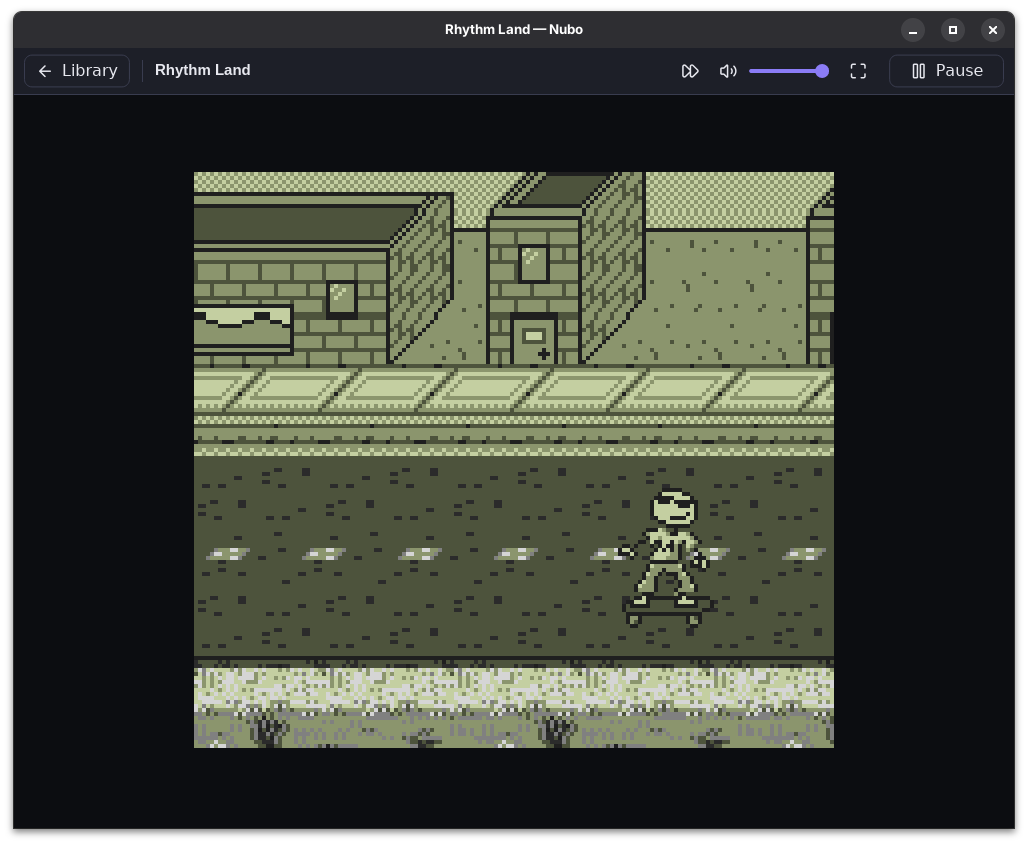
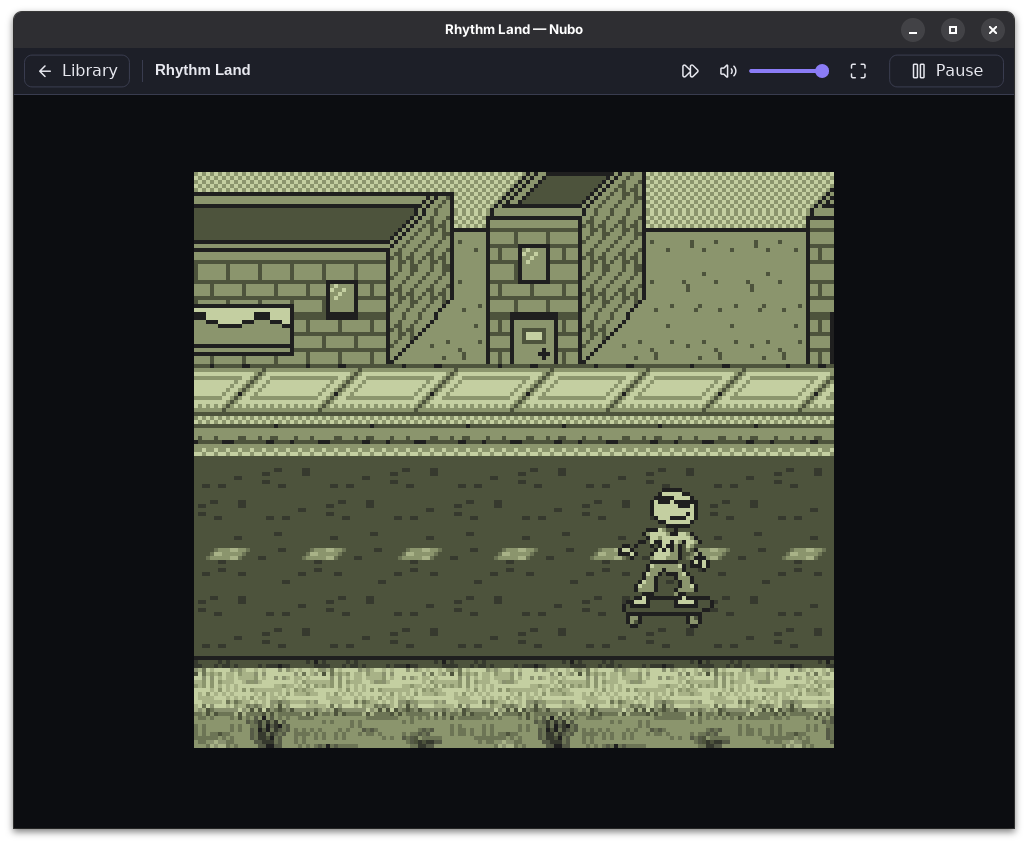
Frontend: repaint both frames in the palette before blending them (#206)
* Frontend: repaint both frames in the palette before blending them

With the original screen look, the screen blended the newest frame with
the one before in the emulator's grays and only then repainted it in the
palette. The palette only knows the four grays, so the shades in between
stayed gray in the Green and Pocket palettes, or landed on another shade
and got its color.

ScreenEffects::show now repaints both frames, then blends them. The frame
before is kept in grays, so a new palette repaints it too. The scene
previews in xtask go through the same function.

Fixes #155

Claude-Session: https://claude.ai/code/session_019D3hNvysR322wvtXzBUgRg

* Regenerate the Rhythm Land screenshot with blended frames in the palette

Its moving road markings and grass were blended in gray before being
repainted, which left them gray in the Pocket palette.

Claude-Session: https://claude.ai/code/session_019D3hNvysR322wvtXzBUgRg

---------

diff --git a/crates/nubo-frontend/src/lcd.rs b/crates/nubo-frontend/src/lcd.rs
@@ -19,7 +19,8 @@
 //! screen look, turns on only the one each model's screen had
 //! ([`ScreenEffects`], see `GameSession::set_screen_look`).
 
-use crate::picture::Frame;
+use crate::palettes::DmgPalette;
+use crate::picture::{Frame, Picture};
 use nubo_core::Model;
 use std::sync::OnceLock;
 
@@ -48,19 +49,36 @@ impl ScreenEffects {
         }
     }
 
-    /// Puts the effects on `frame`, as the emulator drew it: mixes it with
-    /// `previous`, the pixels of the frame before as the emulator drew them,
-    /// when frames blend and there is one, and corrects its colors. Frames
-    /// in the Game Boy's grays and Super Game Boy frames, which a TV showed,
+    /// `frame`, as the emulator drew it, as the player sees it through the
+    /// effects: in `palette` and with or without a Super Game Boy's border
+    /// (see `Frame::shown`), mixed with `previous`, the frame before as the
+    /// emulator drew it, when frames blend and there is one, and with its
+    /// colors corrected. Both frames are repainted in the palette before
+    /// they are mixed: the palette only knows the emulator's four grays, so
+    /// it can't repaint the shades in between that mixing makes. Frames in
+    /// the Game Boy's grays and Super Game Boy frames, which a TV showed,
     /// keep their colors.
-    pub fn apply(self, frame: &mut Frame, previous: Option<&[u8]>) {
-        if self.blend_frames
-            && let Some(previous) = previous
-        {
-            blend(&mut frame.pixels, previous);
-        }
-        if self.correct_colors && !frame.in_dmg_shades && frame.sgb_menu.is_none() {
-            correct_colors(&mut frame.pixels);
+    pub fn show(
+        self,
+        frame: &Frame,
+        previous: Option<&Frame>,
+        palette: DmgPalette,
+        with_border: bool,
+    ) -> Picture {
+        let picture = if self.correct_colors && !frame.in_dmg_shades && frame.sgb_menu.is_none() {
+            let mut corrected = frame.clone();
+            correct_colors(&mut corrected.pixels);
+            corrected.shown(palette, with_border)
+        } else {
+            frame.shown(palette, with_border)
+        };
+        match previous {
+            Some(previous) if self.blend_frames => {
+                let mut pixels = picture.pixels().to_vec();
+                blend(&mut pixels, previous.shown(palette, with_border).pixels());
+                Picture::new(picture.width(), picture.height(), pixels)
+            }
+            _ => picture,
         }
     }
 }

diff --git a/crates/nubo-frontend/src/session/game.rs b/crates/nubo-frontend/src/session/game.rs
@@ -454,9 +454,10 @@ struct Screen {
     border: bool,
     /// What the picture goes through to look like the model's own screen.
     effects: ScreenEffects,
-    /// The pixels of the frame before the newest, as the emulator drew
-    /// them, to blend the newest with.
-    previous: Option<Vec<u8>>,
+    /// The frame before the newest, as the emulator drew it, to blend the
+    /// newest with. It is kept in the emulator's grays, so a new palette
+    /// repaints it too.
+    previous: Option<Frame>,
     /// The sequence number of the frame shown, to skip unchanged frames.
     sequence: u64,
 }
@@ -478,25 +479,17 @@ impl Screen {
     /// without any border. Save states and the library keep it as their
     /// picture.
     fn screen_pixels(&self) -> Option<Vec<u8>> {
-        let mut raw = self.raw.clone()?;
-        self.correct(&mut raw);
-        let picture = raw.shown(self.palette, false);
+        let raw = self.raw.as_ref()?;
+        let picture = self.effects.show(raw, None, self.palette, false);
         Some(picture.pixels().to_vec())
     }
 
     /// Shows a frame as the emulator drew it, in the chosen palette, mixed
     /// with the one before and with its colors corrected if the player wants.
     fn show(&mut self, frame: Frame) {
-        self.previous = self.raw.take().map(|raw| raw.pixels);
+        self.previous = self.raw.take();
         self.raw = Some(frame);
         self.show_again();
-    }
-
-    /// Corrects the colors of a Game Boy Color frame, if the player wants.
-    /// Frames in the Game Boy's grays and Super Game Boy frames, which a TV
-    /// showed, stay as they are.
-    fn correct(&self, frame: &mut Frame) {
-        self.effects.apply(frame, None);
     }
 
     /// Shows the picture through `effects` from now on, repainting the frame
@@ -530,9 +523,11 @@ impl Screen {
     /// it came, after a setting changed.
     fn show_again(&mut self) {
         if let Some(raw) = &self.raw {
-            let mut shown = raw.clone();
-            self.effects.apply(&mut shown, self.previous.as_deref());
-            self.picture = Some(shown.shown(self.palette, self.border));
+            self.picture =
+                Some(
+                    self.effects
+                        .show(raw, self.previous.as_ref(), self.palette, self.border),
+                );
         }
     }
 }

diff --git a/crates/nubo-frontend/src/session/game/tests.rs b/crates/nubo-frontend/src/session/game/tests.rs
@@ -142,6 +142,70 @@ fn a_repainted_frame_stays_blended_with_the_one_before() {
     assert_eq!(screen.pixels(), Some(&blended[..]));
 }
 
+/// An original Game Boy frame whose screen is all the emulator's gray
+/// `shade` (0 is the lightest).
+fn shade_frame(shade: usize) -> Frame {
+    Frame {
+        pixels: nubo_core::DMG_SHADES[shade].repeat((SCREEN_WIDTH * SCREEN_HEIGHT) as usize),
+        ..screen_frame(true)
+    }
+}
+
+/// A screen that blends frames, as an original Game Boy's does.
+fn blending_screen(palette: DmgPalette) -> Screen {
+    let mut screen = Screen::new();
+    screen.set_palette(palette);
+    screen.set_effects(ScreenEffects {
+        correct_colors: false,
+        blend_frames: true,
+    });
+    screen
+}
+
+/// The color halfway between two of `palette`'s colors, as blending mixes
+/// them, as an RGBA pixel.
+fn halfway(palette: DmgPalette, first: usize, second: usize) -> [u8; 4] {
+    let colors = palette.colors();
+    let mut pixel = [0xFF; 4];
+    for channel in 0..3 {
+        pixel[channel] = (u16::from(colors[first][channel]) + u16::from(colors[second][channel]))
+            .div_ceil(2) as u8;
+    }
+    pixel
+}
+
+#[test]
+fn blended_frames_leave_no_gray_in_a_palette() {
+    for palette in [DmgPalette::Green, DmgPalette::Pocket] {
+        for (first, second) in [(0, 3), (0, 2), (1, 3)] {
+            let mut screen = blending_screen(palette);
+            screen.show(shade_frame(first));
+            screen.show(shade_frame(second));
+
+            let expected =
+                halfway(palette, first, second).repeat((SCREEN_WIDTH * SCREEN_HEIGHT) as usize);
+            assert_eq!(
+                screen.pixels(),
+                Some(&expected[..]),
+                "{palette} {first} {second}"
+            );
+        }
+    }
+}
+
+#[test]
+fn a_new_palette_repaints_both_blended_frames() {
+    let mut screen = blending_screen(DmgPalette::Green);
+    screen.show(shade_frame(0));
+    screen.show(shade_frame(3));
+
+    screen.set_palette(DmgPalette::Pocket);
+
+    let expected =
+        halfway(DmgPalette::Pocket, 0, 3).repeat((SCREEN_WIDTH * SCREEN_HEIGHT) as usize);
+    assert_eq!(screen.pixels(), Some(&expected[..]));
+}
+
 #[test]
 fn the_original_screen_look_follows_each_models_screen() {
     for model in Model::ALL {

diff --git a/xtask/src/scene.rs b/xtask/src/scene.rs
@@ -293,13 +293,10 @@ fn preview(rom: &[u8], model: Model, state: &[u8], frames: u32) -> Result<image:
             finished.push(Frame::latest(&emulator));
         }
     }
-    let mut frame = finished.pop().unwrap_or_else(|| Frame::latest(&emulator));
+    let frame = finished.pop().unwrap_or_else(|| Frame::latest(&emulator));
     let previous = finished.pop();
-    ScreenEffects::of(model, true).apply(
-        &mut frame,
-        previous.as_ref().map(|frame| frame.pixels.as_slice()),
-    );
-    let picture = frame.shown(DmgPalette::default(), true);
+    let picture =
+        ScreenEffects::of(model, true).show(&frame, previous.as_ref(), DmgPalette::default(), true);
     image::RgbaImage::from_raw(picture.width(), picture.height(), picture.pixels().to_vec())
         .ok_or_else(|| String::from("the game's picture has the wrong size"))
 }
